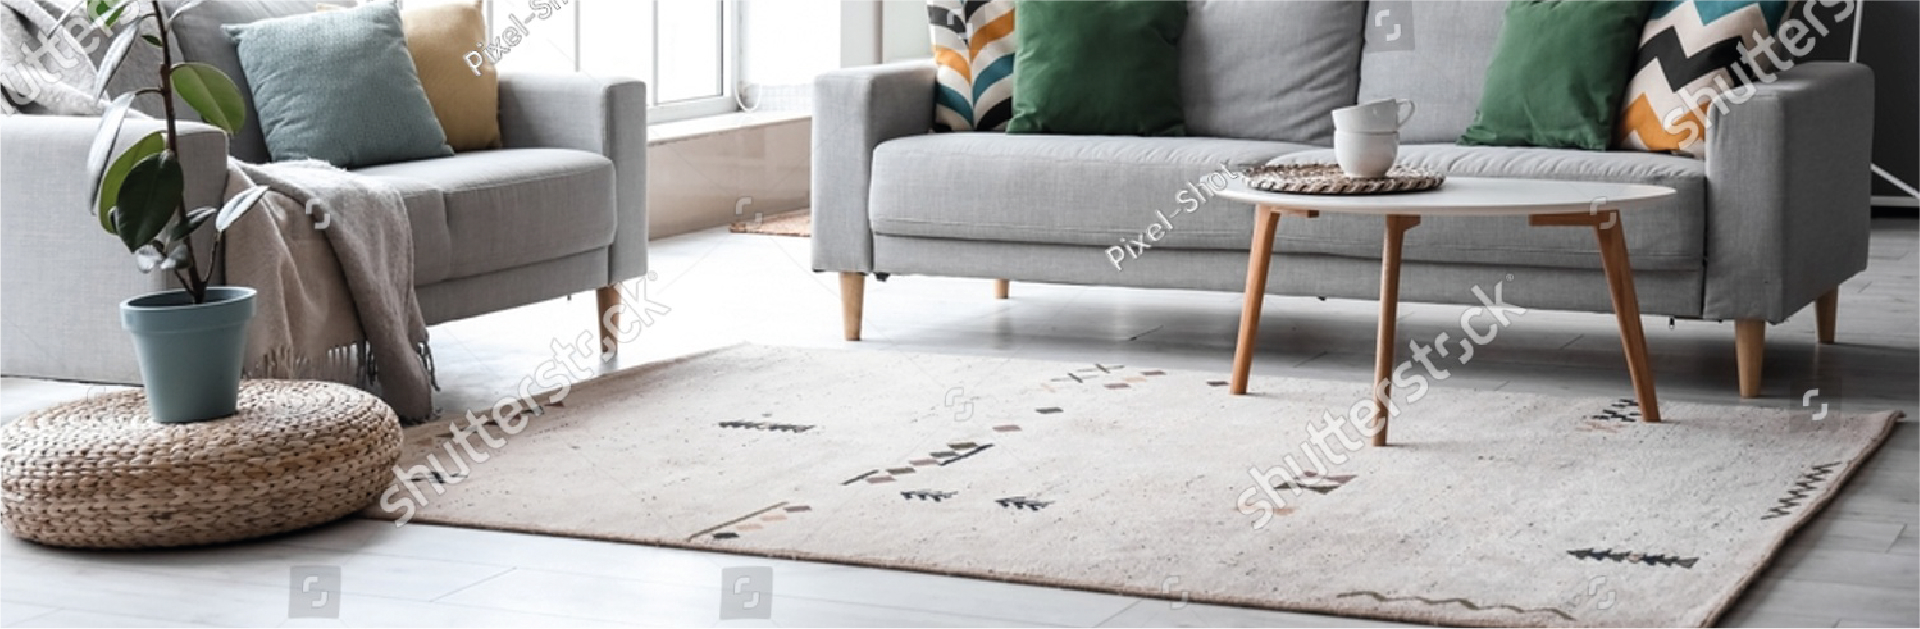
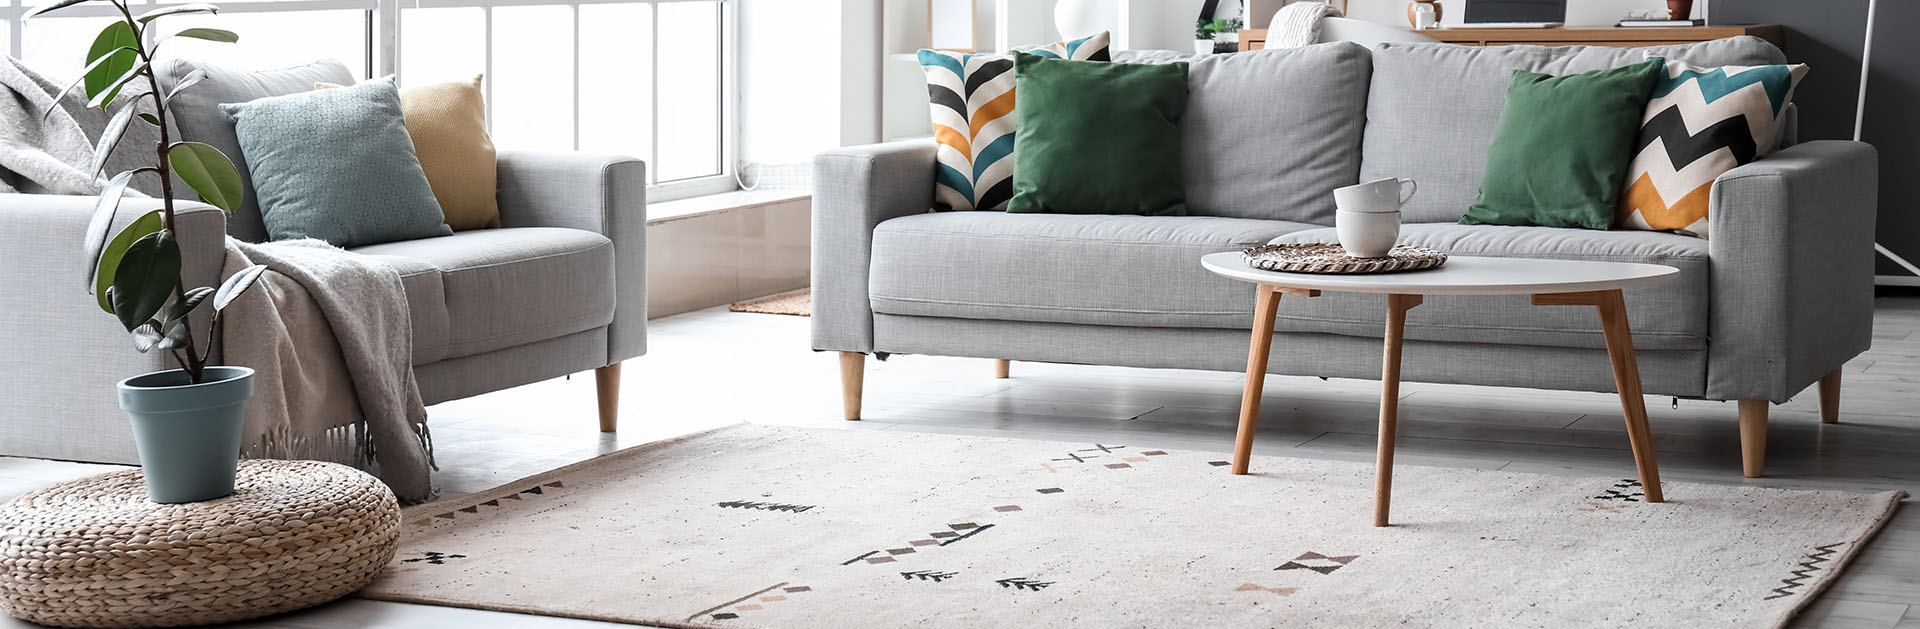
Вызов мастера

diff --git a/_theme/css/section-vizov-mastera.css b/_theme/css/section-vizov-mastera.css
@@ -1,0 +1,100 @@
+.section-vizov-mastera {
+    background-image: url(../img/master_coll.jpg);
+    background-position: center;
+    background-repeat: no-repeat;
+    background-size: cover;
+    padding: 40px 0;
+}
+
+
+.section-vizov-mastera ._container { 
+    background-color: white;
+    overflow: hidden;
+}
+
+.vm_form_blk {
+    display: flex;
+    width: 100%;
+    justify-content: space-between;
+    
+}
+
+.vm_form_blk .ul_in_blk li{
+    font-size: 16px;
+}
+
+.vm_form_blk h2{
+    font-size: 42px;
+}
+
+.vm_form_blk h2{
+    font-size: 42px;
+}
+
+.vm_form_blk  form{
+    width:320px;
+    display: flex;
+    flex-direction: column;
+}
+
+.vm_form_blk  form label{ 
+    margin-left: 0;
+    margin-right: 0;
+}
+
+.vm_form_blk .sub_h{
+    margin: 40px 0;
+}
+
+.vm_form_blk h3{
+    font-size: 26px;
+    font-weight: 500;
+}
+
+.green_pl_srohno {
+    background-color: var(--color-main-green);
+    color: white;
+    margin-top: auto;
+    padding: 20px 20px 20px 150px;
+    border-top-left-radius: 150px;
+}
+
+
+.green_pl_srohno .phone_time{ 
+    display: flex;
+}
+
+.green_pl_srohno .phone_time a{
+ color: white;
+ font-weight: 500;
+ font-size: 42px;
+ text-decoration:  none;
+}
+
+.green_pl_srohno .phone_time p{
+    margin-top: auto;
+    margin-bottom: 0;
+    margin-left: 20px;
+}
+
+.vm_form_blk .right,
+.vm_form_blk .left
+{
+    flex: 1;
+    padding-top: 40px;
+}
+
+.vm_form_blk .left{ 
+    padding-left: 40px;
+    padding-bottom: 40px;
+}
+
+.vm_form_blk .right{ 
+    display: flex;
+    flex-direction: column;
+}
+
+.vm_form_blk .right .wrap{ 
+    margin-left: 150px;
+    margin-right: 20px;
+}

diff --git a/_theme/css/main.css b/_theme/css/main.css
@@ -85,7 +85,7 @@ a {
      background-color: var(--color-main-green);
      position: absolute;
      left: 0;
-     top: 10px;
+     top: calc( 50% - 3px);
  }
  
  .ul_in_blk li{
@@ -160,6 +160,7 @@ label input[type=email]{
     border-radius: var(--border-radius-s-mini);
     width:100%;
     outline:none;
+    padding: 0 15px;
 }
 
 label .select_wrapper {
@@ -172,8 +173,7 @@ label .select_wrapper select {
     background-color: transparent;
     height: 100%;
     width:110%;
-    padding-left:10px;
-    padding-right:10px;
+
     outline:none;
 }
 

diff --git a/_theme/template-parts/section-vizov-mastera.php b/_theme/template-parts/section-vizov-mastera.php
@@ -1,5 +1,39 @@
 <section id="section-vizov-mastera" class="section-vizov-mastera">
-    <div class="_container">
-        <h2>section-vizov-mastera</h2>
+    <div class="_container standart_roundet">
+        <div class="vm_form_blk">
+            <div class="left">
+                <h2>Бесплатно вызовите нашего специалиста в удобное время</h2>
+                <p class="sub_h">Заполните форму, мы перезвоним Вам <br/>и согласуем дату и время визита специалиста</p>
+                
+                <form action="">
+                    <label for="master_col_tel">
+                        <input type="tel" id="master_col_tel" name="phone" placeholder="Ваш телефон">
+                    </label>
+                    <button type="submit" class="btn">Перезвоните мне</button>
+                    <p class="snoska">Нажимая на кнопку, вы даете согласие на обработку персональных данных</p>
+                </form>
+
+            </div>
+            <div class="right">
+                <div class="wrap">
+                    <h3>К Вам на объект приедет опытный бригадир компании, который:</h3>
+                    <ul class="ul_in_blk">
+                        <li>Сделает точный замер</li>
+                        <li>Проконсультирует по видам работ и этапам</li>
+                        <li>Подскажет по выбору материалов</li>
+                        <li>Сориентирует по стоимости и срокам</li>
+                    </ul>
+                </div>
+
+                <div class="green_pl_srohno">
+                    <h3>Нужно срочно?</h3>
+                    <p>Проведем осмотр и консультацию по видеосвязи</p>
+                    <div class="phone_time">
+                        <a href="#">+7 495 287 67 25</a>
+                        <p class="time">с 10:00 до 21:00</p>
+                    </div>
+                </div>
+            </div>
+        </div>
     </div>
 </section>

diff --git a/_theme/template-parts/section-direktor.php b/_theme/template-parts/section-direktor.php
@@ -14,4 +14,4 @@
             </div>
         </div>
     </div>
-</section>
+</section>  
